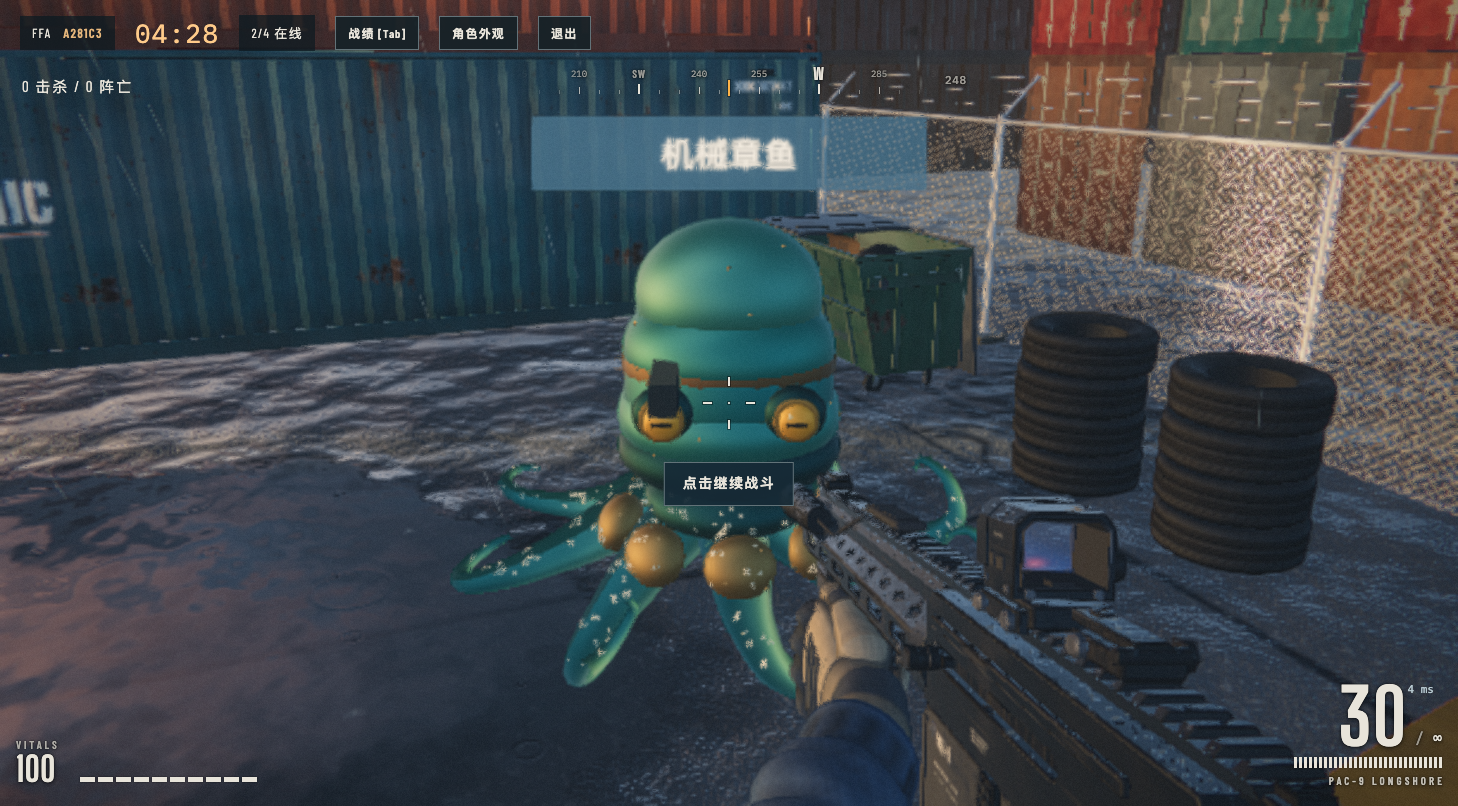
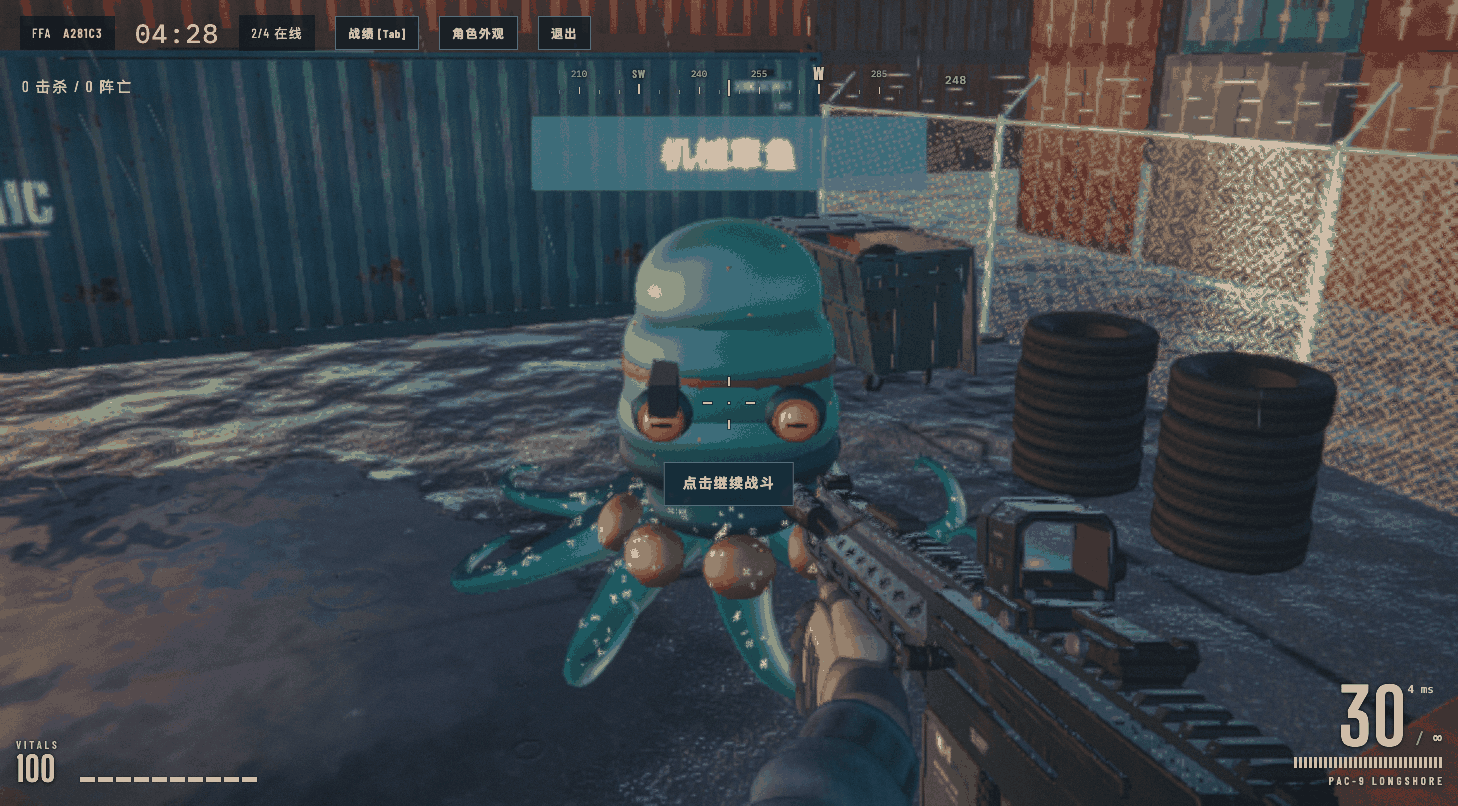
Compress documentation screenshots to shrink the repository.
All 23 docs PNGs are quantized in place with unchanged paths and dimensions, cutting 19.69 MB down to 6.05 MB. Includes the compression plan and per-file report. No gameplay, server, or test changes.

diff --git a/docs/optimization-report.md b/docs/optimization-report.md
@@ -1,0 +1,50 @@
+# Documentation screenshot optimization
+
+Date: 2026-11-12. Scope: all 23 PNG screenshots under `docs/`, compressed in place with Python Pillow. File names, paths, PNG format, and pixel dimensions are unchanged.
+
+## Method and visual checks
+
+Used median-cut palette quantization with dithering disabled, `optimize=True`, and `compress_level=9`: 256 colors for smaller screenshots, 64 colors for most large gameplay screenshots, and 48 colors for death, final-match, movement, and player-equipped. Pillow palette PNGs have no JPEG-style quality setting.
+
+Reviewed an overview of all screenshots and before/after crops at native resolution. UI text remains readable; palette reduction changes colors and introduces some banding in scene textures. Rejected 32-color trials for death and final-match and retained 48 colors to preserve more detail. These two files remain slightly above the approximate 200–500 KB target (553,862 and 621,236 bytes); the other originally 1 MB+ files are within that range.
+
+## File sizes
+
+| File | Before (bytes) | After (bytes) | Saved |
+| --- | ---: | ---: | ---: |
+| `docs/death.png` | 1,523,507 | 553,862 | 63.65% |
+| `docs/final-match.png` | 1,425,267 | 621,236 | 56.41% |
+| `docs/first-match.png` | 1,566,810 | 452,214 | 71.14% |
+| `docs/lobby.png` | 1,515,286 | 384,342 | 74.64% |
+| `docs/mobile-lobby.png` | 337,552 | 161,405 | 52.18% |
+| `docs/movement.png` | 1,434,802 | 464,390 | 67.63% |
+| `docs/opponent.png` | 1,560,713 | 470,537 | 69.85% |
+| `docs/respawn.png` | 1,675,123 | 416,875 | 75.11% |
+| `docs/results.png` | 1,446,004 | 433,877 | 69.99% |
+| `docs/screenshots/admin/features.png` | 88,108 | 35,189 | 60.06% |
+| `docs/screenshots/admin/login.png` | 47,705 | 17,969 | 62.33% |
+| `docs/screenshots/admin/mobile.png` | 68,325 | 27,579 | 59.64% |
+| `docs/screenshots/admin/overview.png` | 88,718 | 35,861 | 59.58% |
+| `docs/screenshots/admin/player-disabled.png` | 1,754,803 | 489,794 | 72.09% |
+| `docs/screenshots/admin/player-equipped.png` | 1,795,212 | 475,505 | 73.51% |
+| `docs/screenshots/admin/player-preview-off.png` | 411,630 | 132,360 | 67.84% |
+| `docs/screenshots/admin/providers.png` | 99,164 | 39,401 | 60.27% |
+| `docs/screenshots/admin/records.png` | 152,941 | 60,625 | 60.36% |
+| `docs/screenshots/admin/role-preview.png` | 137,781 | 67,807 | 50.79% |
+| `docs/screenshots/admin/system.png` | 183,586 | 73,157 | 60.15% |
+| `docs/screenshots/text-avatars/mobile.png` | 168,040 | 54,840 | 67.36% |
+| `docs/screenshots/text-avatars/multiplayer.png` | 1,756,941 | 435,968 | 75.19% |
+| `docs/screenshots/text-avatars/preview.png` | 451,725 | 144,691 | 67.97% |
+| **Total** | **19,689,743** | **6,049,484** | **69.28%** |
+
+Saved 13,640,259 bytes: 19.69 MB → 6.05 MB (decimal units).
+
+## Validation
+
+- All 23 PNGs decode successfully, retain their original dimensions, and are smaller than their originals.
+- `npm test`: 29 passed, 0 failed, exit code 0 (Node.js v24.18.0). The initial sandboxed run encountered a native Node assertion and stalled; rerunning outside the sandbox allowed the local HTTP/WebSocket integration tests to pass.
+- No changes to `public/`, `server/`, or `tests/`. No commits, pushes, or history rewrites.
+
+## Screenshot contribution note
+
+Compress screenshots before committing. Do not commit uncompressed PNGs larger than 1 MB; keep original dimensions and verify that UI text remains readable.

diff --git a/docs/plans/2026-11-12-compress-docs.md b/docs/plans/2026-11-12-compress-docs.md
@@ -1,0 +1,31 @@
+# 优化方案（第一批）：压缩文档截图
+
+## 背景
+
+最新分支 `codex/admin-console` 工作树约 20.4 MB，其中 `docs/` 截图约 18.8 MB（23 张 PNG），游戏代码和运行时资源大约只有 1.6 MB。体积大头是未压缩的验收截图。
+
+## 本次范围
+
+只做仓库体积优化：压缩 `docs/` 下截图，保持文档可读，不改玩法，不改运行时代码。
+
+明确不做（留到后续批次）：
+
+- 域名和 HTTPS
+- 断线重连
+- 延迟补偿 / 延迟回溯
+- 管理后台公网加固
+- 重写 git 历史（会让已有克隆全部作废）
+
+说明：本批只提交压缩后的文件，当前检出体积会下降，但 GitHub 上的历史占用不会立刻变小。
+
+## 执行要求
+
+1. 在当前分支 `optimize/compress-docs-screenshots`（基于 `codex/admin-console`）上工作。
+2. 压缩所有 `docs/**/*.png`，保持相对路径和文件名不变，Markdown 引用不用改（除非改了扩展名，那就必须同步改完所有引用并删除旧 PNG）。
+3. 压缩工具：优先 `pngquant` + `oxipng`（如果已安装）。否则使用本机已安装的 Python Pillow（`from PIL import Image`）将 PNG 以优化过的调色板/压缩参数原地写回，或使用已安装的 `cwebp`（若改成 WebP，必须同步所有引用并删除旧 PNG）。不要缩小像素尺寸。
+4. 目标：大于 1 MB 的图压到大约 200-500 KB，且界面文字仍能看清；较小的图按比例压缩。不要压到看不清。建议质量约 70-85。
+5. 不要修改 `public/`、`server/`、`tests/` 里的功能代码。不要改 `public/index.html`（里面的较大资源是运行时需要的）。
+6. 可在 README 或文档中补充一两句：提交截图前先压缩，不要把未压缩的 1 MB+ PNG 提交进仓库。
+7. 运行 `npm test`，必须通过。
+8. 写 `docs/optimization-report.md`，列出每张图压缩前后字节数和总计对比。
+9. 不要 `git push`，不要 force push，不要改历史。不要提交；只改文件，提交由我来做。
